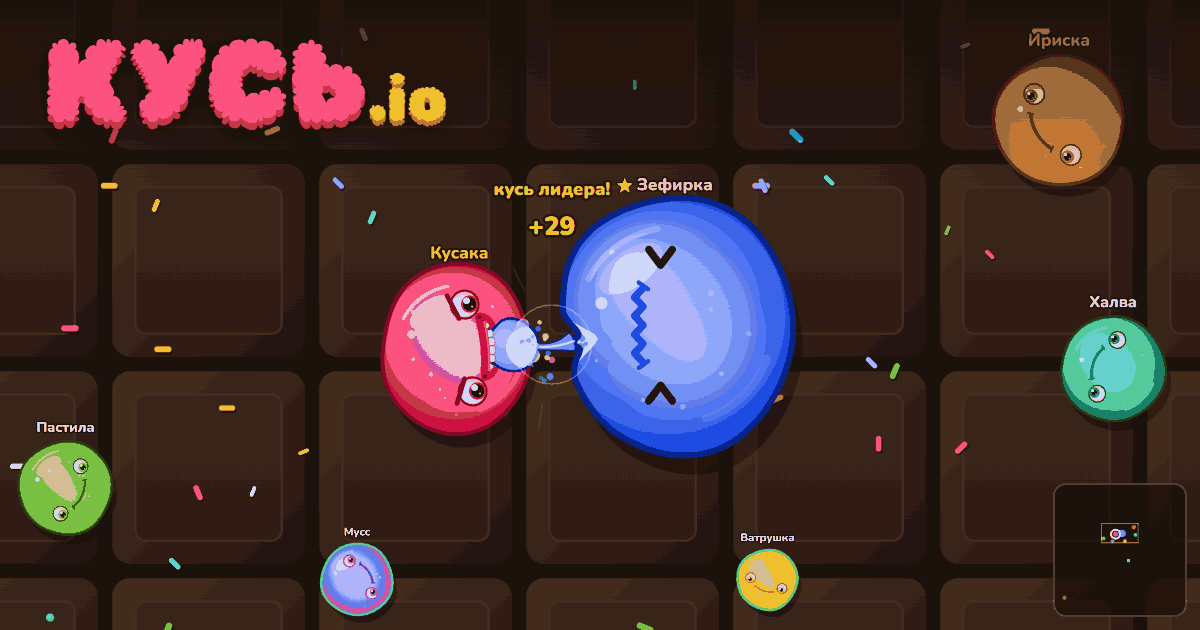
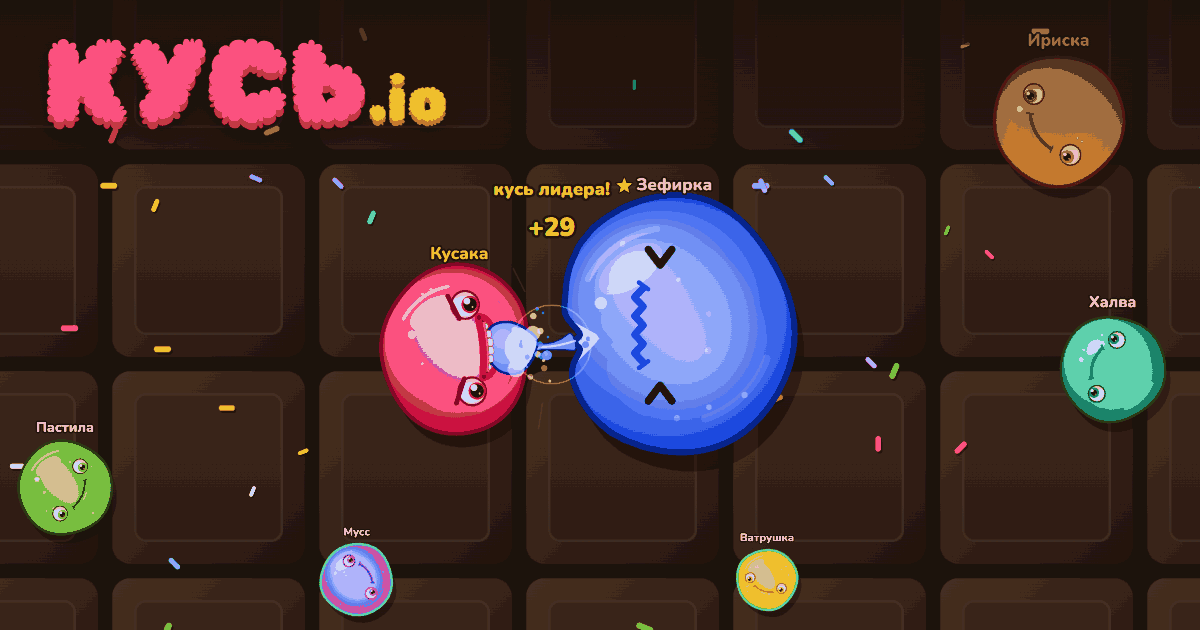
Wave 1 polish: phone HUD line, sideways challenge, newcomer hints, preview without minimap
- the mode line under the timer wraps left of the leaderboard on touch screens
- a friend's challenge shows in the sideways menu as one compact row (long parts of old/future-day texts drop out)
- a newcomer's daily run: at most two plaques, the twist comes after the bite lesson, the snack sits to the right
- og.png: a staged shot draws no minimap; tests for the goal line and the sideways challenge

diff --git a/index.html b/index.html
@@ -242,6 +242,8 @@ body.touch #pauseBtn:before,body.touch #mute:before{content:"";position:absolute
 body.touch #pauseBtn,body.touch #mute{background:rgba(255,241,220,.82);box-shadow:none}
 body.touch:not(.playing) #mute{left:calc(14px + env(safe-area-inset-left,0px))}
 body.touch #feed div{background:rgba(20,11,8,.55);color:var(--cream);box-shadow:none;border-radius:12px;max-width:calc(100vw - 206px - env(safe-area-inset-left,0px) - env(safe-area-inset-right,0px))}
+body.touch #goal{max-width:calc(100vw - 206px - env(safe-area-inset-left,0px) - env(safe-area-inset-right,0px))} /* wraps left of the table, like the feed */
+body.first.touch #feed div{max-width:min(calc(50vw - 52px),calc(100vw - 206px))} /* the first run: hints stop short of the player in the middle */
 @media (max-width:700px){body.touch #board{width:min(150px,42vw)}}
 @media (max-height:520px) and (min-width:701px){ /* phone held sideways: the menu must fit without scrolling */
   .ov{padding:8px max(4vw,16px)}
@@ -249,7 +251,9 @@ body.touch #feed div{background:rgba(20,11,8,.55);color:var(--cream);box-shadow:
   .card{padding:12px 18px;max-height:calc(100vh - 16px);max-height:calc(100svh - 16px)}
   .top{display:flex;align-items:center;gap:14px}
   .logo{font-size:36px;margin:0}
-  .tag,.help,#rec,.pl,#mis,#chal,#dif{display:none}
+  .tag,.help,#rec,.pl,#mis,#dif{display:none}
+  #chal{margin:0 0 4px;padding:4px 10px;font-size:12px;line-height:1.3;white-space:nowrap;overflow:hidden;text-overflow:ellipsis} /* a friend's link still says why you are here, in one row */
+  #chal .lx{display:none}
   .seg2,.seg3{margin-bottom:6px}
   .seg2 button,.seg3 button{min-height:34px;padding:4px 8px}
   #modeSeg{grid-template-columns:repeat(3,minmax(0,1fr))}
@@ -2924,6 +2928,7 @@ function tutorPrey() {
   const P = player,
     b = spawnBot(14),
     d = P.Rs + b.Rs + 85; // ambling 24 around this, it comes no closer than 61: the bite hint waits for the player to move in
+  P.face = 0; // to the right: the hint plaques stack on the left, the snack must not hide under them
   b.x = b.hx = clamp(P.x + Math.cos(P.face) * d, 100, WORLD - 100);
   b.y = b.hy = clamp(P.y + Math.sin(P.face) * d, 100, WORLD - 100);
   b.face = P.face; // its back to the player
@@ -3111,7 +3116,9 @@ function addFeed(html, ms) {
   const d = document.createElement('div');
   d.innerHTML = html;
   feedEl.prepend(d);
-  while (feedEl.children.length > 4) feedEl.lastElementChild.remove();
+  // a newcomer's first seconds keep to two plaques, so the field in front of the player stays clear
+  const cap = tutor || (run && run.dayNote) ? 2 : 4;
+  while (feedEl.children.length > cap) feedEl.lastElementChild.remove();
   setTimeout(() => {
     d.style.opacity = '0';
     setTimeout(() => d.remove(), 500);
@@ -3120,6 +3127,7 @@ function addFeed(html, ms) {
 function feedKill(A, B) {
   if (A.isPlayer) addFeed(`Ты съедаешь <b>${esc(B.acc)}</b> целиком`);
   else if (
+    !tutor && // the first run's lesson is not pushed out by other candies' meals
     !B.isPlayer &&
     state === 'play' &&
     player &&
@@ -3356,8 +3364,16 @@ function startGame() {
     if (!tutor) addFeed('<b>Красный</b> контур съест тебя, <b>зелёного</b> съешь ты'); // the first run tells this after the first bite
   } else if (tutor) addFeed('Веди мышью: пасть смотрит на курсор');
   else addFeed('<b>Красная</b> обводка: тебя проглотят целиком. <b>Зелёная</b>: проглотишь ты');
-  if (day) addFeed(`<b>${run.rule.name}</b>: ${run.rule.note.charAt(0).toLowerCase() + run.rule.note.slice(1)}`, 6500);
+  if (day) {
+    if (tutor)
+      run.dayNote = true; // a newcomer learns to steer and bite first, the twist is told after that
+    else dayFeed();
+  }
   if (document.activeElement && document.activeElement.blur) document.activeElement.blur();
+}
+function dayFeed() {
+  run.dayNote = false;
+  addFeed(`<b>${run.rule.name}</b>: ${run.rule.note.charAt(0).toLowerCase() + run.rule.note.slice(1)}`, 6500);
 }
 function tally() {
   const st = player.stats;
@@ -3691,13 +3707,20 @@ function updateHUD(dt) {
             : 'Дотянись пастью до <b>зелёной</b> конфеты, укус сам. <b>Клик</b>: рывок с укусом',
         );
     }
-    for (const b of blobs) {
-      if (!b.kind || !b.alive || seen[b.kind] || Math.abs(b.x - player.x) > view + b.Rs || Math.abs(b.y - player.y) > view + b.Rs) continue;
-      if (b.kind === 'hedgehog') hint('hedgehog', '<b>Ёж</b>: со спины колется. Кусай его в морду');
-      else if (b.kind === 'cake') hint('cake', '<b>Торт</b>: корка твёрдая. Кусай в вишенку на спине');
-      else hint('piranha', '<b>Пираньи</b>: мелкие, но нападают стаей. Глотай по одной');
+    if (run.dayNote && !tutor) {
+      let live = 0;
+      for (const d of feedEl.children) if (d.style.opacity !== '0') live++;
+      if (live < 2) dayFeed();
     }
-    if (!seen.pickup)
+    if (!tutor)
+      // the first run's lesson goes first, these wait until it is over
+      for (const b of blobs) {
+        if (!b.kind || !b.alive || seen[b.kind] || Math.abs(b.x - player.x) > view + b.Rs || Math.abs(b.y - player.y) > view + b.Rs) continue;
+        if (b.kind === 'hedgehog') hint('hedgehog', '<b>Ёж</b>: со спины колется. Кусай его в морду');
+        else if (b.kind === 'cake') hint('cake', '<b>Торт</b>: корка твёрдая. Кусай в вишенку на спине');
+        else hint('piranha', '<b>Пираньи</b>: мелкие, но нападают стаей. Глотай по одной');
+      }
+    if (!seen.pickup && !tutor)
       for (const q of pickups)
         if (Math.abs(q.x - player.x) < view && Math.abs(q.y - player.y) < view) {
           hint('pickup', '<b>Бонус</b>: наедь на него, чтобы подобрать');
@@ -5188,7 +5211,7 @@ function drawTexts(ox, oy, z) {
   ctx.globalAlpha = 1;
 }
 function drawMinimap(x0, y0, x1, y1) {
-  if (state === 'menu' && W < 760) return;
+  if ((state === 'menu' && W < 760) || debugCam) return; // a staged shot (og.png) has no HUD
   const small = Math.min(W, H) < 600,
     S = small ? (touchMode ? 84 : 92) : 132,
     pad = 14,
@@ -6254,13 +6277,14 @@ function start(data) {
   }
   if (challenge) {
     const t = dailyOf(todayKey());
-    $('chal').textContent = !challenge.d
-      ? `${challenge.n} набрал ${challenge.c}. Побей в свободной игре!`
+    // parts in .lx drop out on a phone held sideways, where the line must stay one row
+    $('chal').innerHTML = !challenge.d
+      ? `${esc(challenge.n)} набрал ${challenge.c}. Побей в свободной игре!`
       : chalToday()
-        ? `${challenge.n} набрал ${challenge.c} в конфете дня «${t.name}». Побей сегодня`
+        ? `${esc(challenge.n)} набрал ${challenge.c} в конфете дня «${t.name}». Побей сегодня`
         : challenge.d > t.key
-          ? `Это вызов на конфету за ${keyText(challenge.d)}, у тебя она ещё не началась. Сегодня «${t.name}», сыграй её`
-          : `Это ${challenge.d === prevKey(t.key) ? 'вчерашняя конфета' : `конфета за ${keyText(challenge.d)}`}, она уже закончилась. Сегодня новая: «${t.name}», сыграй её`;
+          ? `Это вызов на конфету за ${keyText(challenge.d)}<span class="lx">, у тебя она ещё не началась</span>. Сегодня «${t.name}»<span class="lx">, сыграй её</span>`
+          : `Это ${challenge.d === prevKey(t.key) ? 'вчерашняя конфета' : `конфета за ${keyText(challenge.d)}`}, она уже закончилась. Сегодня<span class="lx"> новая</span>: «${t.name}»<span class="lx">, сыграй её</span>`;
     $('chal').classList.remove('hidden');
     mode = challenge.d ? 'daily' : 'free';
   }

diff --git a/src/js/10-flow.js b/src/js/10-flow.js
@@ -8,7 +8,9 @@ function addFeed(html, ms) {
   const d = document.createElement('div');
   d.innerHTML = html;
   feedEl.prepend(d);
-  while (feedEl.children.length > 4) feedEl.lastElementChild.remove();
+  // a newcomer's first seconds keep to two plaques, so the field in front of the player stays clear
+  const cap = tutor || (run && run.dayNote) ? 2 : 4;
+  while (feedEl.children.length > cap) feedEl.lastElementChild.remove();
   setTimeout(() => {
     d.style.opacity = '0';
     setTimeout(() => d.remove(), 500);
@@ -17,6 +19,7 @@ function addFeed(html, ms) {
 function feedKill(A, B) {
   if (A.isPlayer) addFeed(`Ты съедаешь <b>${esc(B.acc)}</b> целиком`);
   else if (
+    !tutor && // the first run's lesson is not pushed out by other candies' meals
     !B.isPlayer &&
     state === 'play' &&
     player &&
@@ -253,8 +256,16 @@ function startGame() {
     if (!tutor) addFeed('<b>Красный</b> контур съест тебя, <b>зелёного</b> съешь ты'); // the first run tells this after the first bite
   } else if (tutor) addFeed('Веди мышью: пасть смотрит на курсор');
   else addFeed('<b>Красная</b> обводка: тебя проглотят целиком. <b>Зелёная</b>: проглотишь ты');
-  if (day) addFeed(`<b>${run.rule.name}</b>: ${run.rule.note.charAt(0).toLowerCase() + run.rule.note.slice(1)}`, 6500);
+  if (day) {
+    if (tutor)
+      run.dayNote = true; // a newcomer learns to steer and bite first, the twist is told after that
+    else dayFeed();
+  }
   if (document.activeElement && document.activeElement.blur) document.activeElement.blur();
+}
+function dayFeed() {
+  run.dayNote = false;
+  addFeed(`<b>${run.rule.name}</b>: ${run.rule.note.charAt(0).toLowerCase() + run.rule.note.slice(1)}`, 6500);
 }
 function tally() {
   const st = player.stats;
@@ -588,13 +599,20 @@ function updateHUD(dt) {
             : 'Дотянись пастью до <b>зелёной</b> конфеты, укус сам. <b>Клик</b>: рывок с укусом',
         );
     }
-    for (const b of blobs) {
-      if (!b.kind || !b.alive || seen[b.kind] || Math.abs(b.x - player.x) > view + b.Rs || Math.abs(b.y - player.y) > view + b.Rs) continue;
-      if (b.kind === 'hedgehog') hint('hedgehog', '<b>Ёж</b>: со спины колется. Кусай его в морду');
-      else if (b.kind === 'cake') hint('cake', '<b>Торт</b>: корка твёрдая. Кусай в вишенку на спине');
-      else hint('piranha', '<b>Пираньи</b>: мелкие, но нападают стаей. Глотай по одной');
+    if (run.dayNote && !tutor) {
+      let live = 0;
+      for (const d of feedEl.children) if (d.style.opacity !== '0') live++;
+      if (live < 2) dayFeed();
     }
-    if (!seen.pickup)
+    if (!tutor)
+      // the first run's lesson goes first, these wait until it is over
+      for (const b of blobs) {
+        if (!b.kind || !b.alive || seen[b.kind] || Math.abs(b.x - player.x) > view + b.Rs || Math.abs(b.y - player.y) > view + b.Rs) continue;
+        if (b.kind === 'hedgehog') hint('hedgehog', '<b>Ёж</b>: со спины колется. Кусай его в морду');
+        else if (b.kind === 'cake') hint('cake', '<b>Торт</b>: корка твёрдая. Кусай в вишенку на спине');
+        else hint('piranha', '<b>Пираньи</b>: мелкие, но нападают стаей. Глотай по одной');
+      }
+    if (!seen.pickup && !tutor)
       for (const q of pickups)
         if (Math.abs(q.x - player.x) < view && Math.abs(q.y - player.y) < view) {
           hint('pickup', '<b>Бонус</b>: наедь на него, чтобы подобрать');

diff --git a/src/js/17-boot.js b/src/js/17-boot.js
@@ -188,13 +188,14 @@ function start(data) {
   }
   if (challenge) {
     const t = dailyOf(todayKey());
-    $('chal').textContent = !challenge.d
-      ? `${challenge.n} набрал ${challenge.c}. Побей в свободной игре!`
+    // parts in .lx drop out on a phone held sideways, where the line must stay one row
+    $('chal').innerHTML = !challenge.d
+      ? `${esc(challenge.n)} набрал ${challenge.c}. Побей в свободной игре!`
       : chalToday()
-        ? `${challenge.n} набрал ${challenge.c} в конфете дня «${t.name}». Побей сегодня`
+        ? `${esc(challenge.n)} набрал ${challenge.c} в конфете дня «${t.name}». Побей сегодня`
         : challenge.d > t.key
-          ? `Это вызов на конфету за ${keyText(challenge.d)}, у тебя она ещё не началась. Сегодня «${t.name}», сыграй её`
-          : `Это ${challenge.d === prevKey(t.key) ? 'вчерашняя конфета' : `конфета за ${keyText(challenge.d)}`}, она уже закончилась. Сегодня новая: «${t.name}», сыграй её`;
+          ? `Это вызов на конфету за ${keyText(challenge.d)}<span class="lx">, у тебя она ещё не началась</span>. Сегодня «${t.name}»<span class="lx">, сыграй её</span>`
+          : `Это ${challenge.d === prevKey(t.key) ? 'вчерашняя конфета' : `конфета за ${keyText(challenge.d)}`}, она уже закончилась. Сегодня<span class="lx"> новая</span>: «${t.name}»<span class="lx">, сыграй её</span>`;
     $('chal').classList.remove('hidden');
     mode = challenge.d ? 'daily' : 'free';
   }

diff --git a/src/style.css b/src/style.css
@@ -209,6 +209,8 @@ body.touch #pauseBtn:before,body.touch #mute:before{content:"";position:absolute
 body.touch #pauseBtn,body.touch #mute{background:rgba(255,241,220,.82);box-shadow:none}
 body.touch:not(.playing) #mute{left:calc(14px + env(safe-area-inset-left,0px))}
 body.touch #feed div{background:rgba(20,11,8,.55);color:var(--cream);box-shadow:none;border-radius:12px;max-width:calc(100vw - 206px - env(safe-area-inset-left,0px) - env(safe-area-inset-right,0px))}
+body.touch #goal{max-width:calc(100vw - 206px - env(safe-area-inset-left,0px) - env(safe-area-inset-right,0px))} /* wraps left of the table, like the feed */
+body.first.touch #feed div{max-width:min(calc(50vw - 52px),calc(100vw - 206px))} /* the first run: hints stop short of the player in the middle */
 @media (max-width:700px){body.touch #board{width:min(150px,42vw)}}
 @media (max-height:520px) and (min-width:701px){ /* phone held sideways: the menu must fit without scrolling */
   .ov{padding:8px max(4vw,16px)}
@@ -216,7 +218,9 @@ body.touch #feed div{background:rgba(20,11,8,.55);color:var(--cream);box-shadow:
   .card{padding:12px 18px;max-height:calc(100vh - 16px);max-height:calc(100svh - 16px)}
   .top{display:flex;align-items:center;gap:14px}
   .logo{font-size:36px;margin:0}
-  .tag,.help,#rec,.pl,#mis,#chal,#dif{display:none}
+  .tag,.help,#rec,.pl,#mis,#dif{display:none}
+  #chal{margin:0 0 4px;padding:4px 10px;font-size:12px;line-height:1.3;white-space:nowrap;overflow:hidden;text-overflow:ellipsis} /* a friend's link still says why you are here, in one row */
+  #chal .lx{display:none}
   .seg2,.seg3{margin-bottom:6px}
   .seg2 button,.seg3 button{min-height:34px;padding:4px 8px}
   #modeSeg{grid-template-columns:repeat(3,minmax(0,1fr))}

diff --git a/src/js/09-bots.js b/src/js/09-bots.js
@@ -274,6 +274,7 @@ function tutorPrey() {
   const P = player,
     b = spawnBot(14),
     d = P.Rs + b.Rs + 85; // ambling 24 around this, it comes no closer than 61: the bite hint waits for the player to move in
+  P.face = 0; // to the right: the hint plaques stack on the left, the snack must not hide under them
   b.x = b.hx = clamp(P.x + Math.cos(P.face) * d, 100, WORLD - 100);
   b.y = b.hy = clamp(P.y + Math.sin(P.face) * d, 100, WORLD - 100);
   b.face = P.face; // its back to the player

diff --git a/src/js/13-draw-body.js b/src/js/13-draw-body.js
@@ -432,7 +432,7 @@ function drawTexts(ox, oy, z) {
   ctx.globalAlpha = 1;
 }
 function drawMinimap(x0, y0, x1, y1) {
-  if (state === 'menu' && W < 760) return;
+  if ((state === 'menu' && W < 760) || debugCam) return; // a staged shot (og.png) has no HUD
   const small = Math.min(W, H) < 600,
     S = small ? (touchMode ? 84 : 92) : 132,
     pad = 14,
